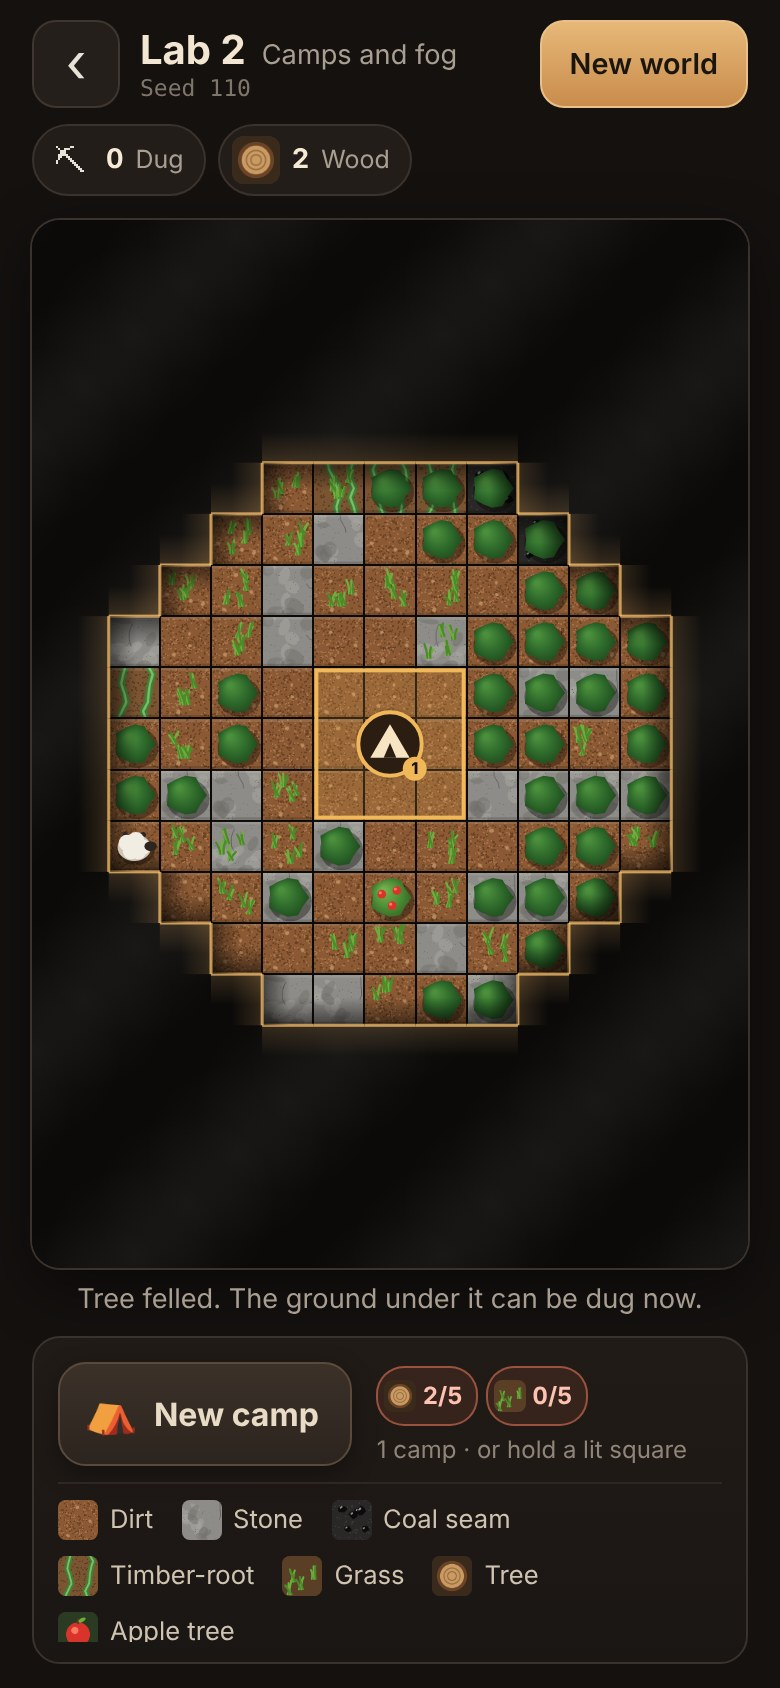
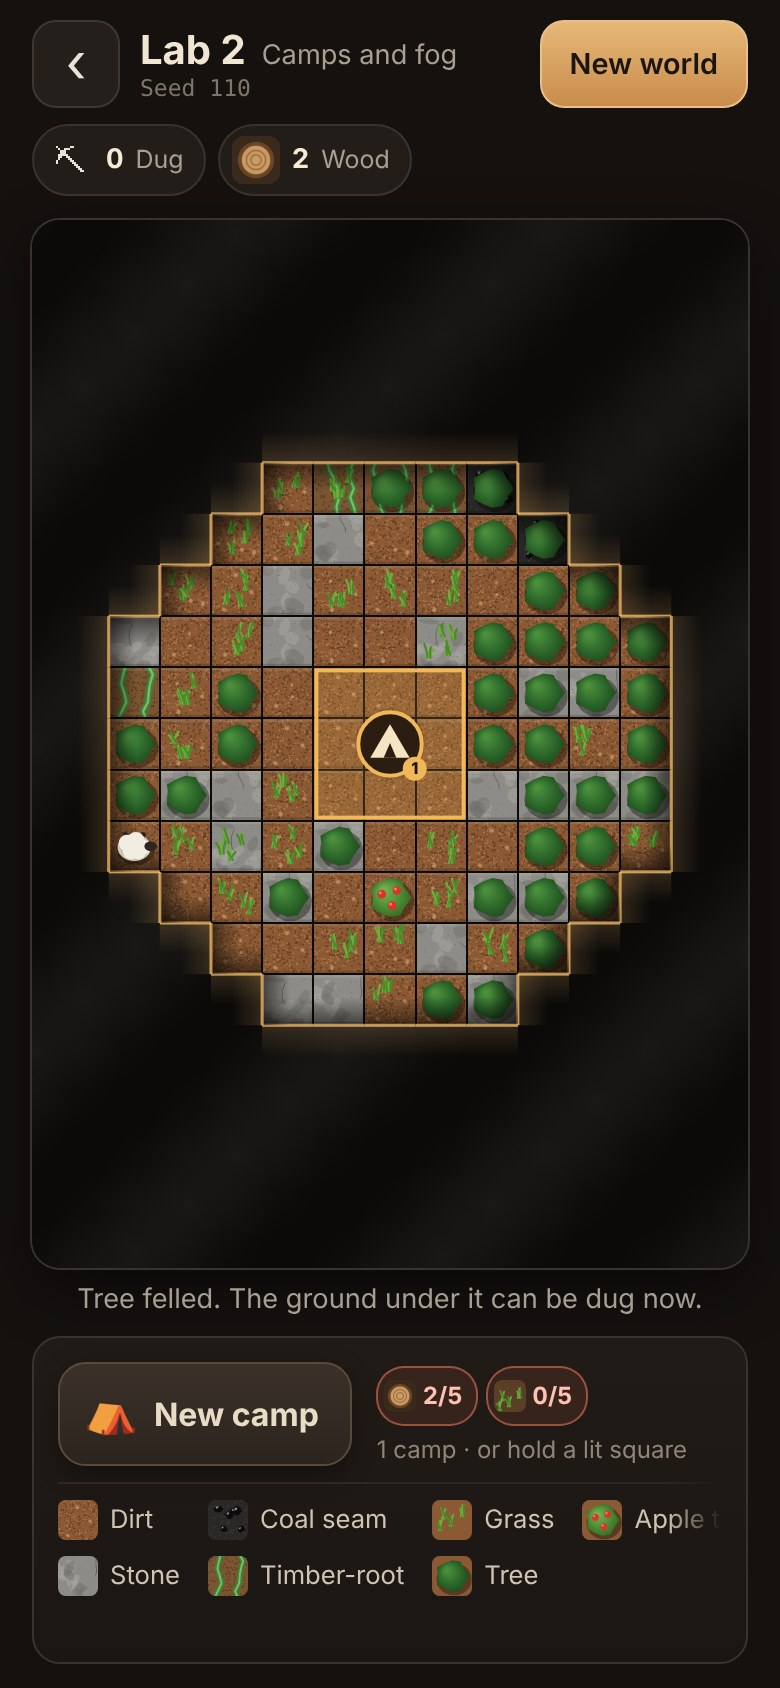
Lab 2: counter leads with the next costs; refused outline stands out on clay
Review of PR #122 (optional notes, asked for by the coordinator):
- The counter puts the items the lowest camp's next upgrade costs first,
  then a new camp's, so clay, stone and animals no longer hide off its
  right edge. The level-2 e2e test checks the order.
- A refused camp target's red dashed outline has a dark band under it, so
  it reads over clay's reddish ground as well.
- Decision note 0043 describes the counter order and the key's layout.

Claude-Session: https://claude.ai/code/session_013qbeeYRuiqGUrErSzN4qt9

Changed region(s): [[0.0615, 0.8626, 0.7077, 0.9858], [0.7385, 0.8626, 0.8, 0.9242], [0.8308, 0.8934, 0.8923, 0.9242]]

diff --git a/src/app/lab/campScreen.ts b/src/app/lab/campScreen.ts
@@ -632,6 +632,18 @@ export function mountCampLab(root: HTMLElement, seed: number | null, onBack: () 
     }
     const { px, py } = toPx(target.x, target.y);
     ctx.save();
+    if (blocked) {
+      // A dark band under the red dashes, so the outline reads over clay's
+      // reddish ground too (review of PR #122).
+      ctx.strokeStyle = CAMP_MARKS.notLevelHalo;
+      ctx.lineWidth = Math.max(4, c * 0.17);
+      ctx.strokeRect(
+        px - c + ctx.lineWidth / 2,
+        py - c + ctx.lineWidth / 2,
+        c * 3 - ctx.lineWidth,
+        c * 3 - ctx.lineWidth,
+      );
+    }
     ctx.globalAlpha = pulse;
     ctx.strokeStyle = blocked ? CAMP_MARKS.notLevel : CAMP_MARKS.target;
     ctx.lineWidth = Math.max(2, c * 0.09);
@@ -751,15 +763,42 @@ export function mountCampLab(root: HTMLElement, seed: number | null, onBack: () 
       );
       chips.push(made);
     };
+    // Every item collected: the lab's own (with their icons), then the game's.
+    const all: { item: string; count: number; icon: () => HTMLCanvasElement | null }[] = [];
     for (const item of Object.keys(LAB_ITEMS)) {
-      const count = counts.get(item) ?? 0;
-      const icon = labItemIcon(item, 'lab-chip-icon');
-      if (count > 0 && icon !== null) {
-        chip(item, count, icon);
-      }
+      all.push({
+        item,
+        count: counts.get(item) ?? 0,
+        icon: () => labItemIcon(item, 'lab-chip-icon'),
+      });
     }
     for (const entry of resourceEntries(counts)) {
-      chip(entry.item, entry.count, blockIcon(entry.iconBlock, 'lab-chip-icon'));
+      all.push({
+        item: entry.item,
+        count: entry.count,
+        icon: () => blockIcon(entry.iconBlock, 'lab-chip-icon'),
+      });
+    }
+    // What the next steps cost comes first, so it never hides off the right
+    // edge (review of PR #122): the lowest camp's next upgrade, then a new
+    // camp. (Wood and grass come early, when they are the only chips anyway.)
+    // The rest keeps its order after them.
+    const lowest = Math.min(...world.camps.map((c) => c.level));
+    const wanted: string[] = [];
+    for (const stack of [...(upgradeCostFrom(lowest) ?? []), ...LAB_NEW_CAMP_COST]) {
+      if (!wanted.includes(stack.item)) wanted.push(stack.item);
+    }
+    const rank = (item: string): number => {
+      const at = wanted.indexOf(item);
+      return at === -1 ? wanted.length : at;
+    };
+    // `sort` keeps equal ranks in their order (it is stable), so the rest stays as it was.
+    all.sort((a, b) => rank(a.item) - rank(b.item));
+    for (const entry of all) {
+      const icon = entry.count > 0 ? entry.icon() : null;
+      if (icon !== null) {
+        chip(entry.item, entry.count, icon);
+      }
     }
     counter.replaceChildren(...chips);
   }

diff --git a/tests/e2e/lab2.spec.ts b/tests/e2e/lab2.spec.ts
@@ -430,6 +430,16 @@ test('clay, stone and an animal pay for level 2, and the ring grows', async ({ p
   await expect(canvas).toHaveAttribute('data-shown', String(shownOf(plan.world)));
   await expect.poll(() => counts(page)).toEqual(expectedCounts(plan.world));
 
+  // The counter puts what the upgrade costs first, right after "Dug", so
+  // clay, stone and animals never hide off its right edge.
+  const order = await page
+    .getByTestId('lab-counter')
+    .evaluate((el) => Array.from(el.children).map((c) => (c as HTMLElement).dataset['testid']));
+  expect(order.slice(0, 4)).toEqual([
+    'lab-dug',
+    ...(upgradeCostFrom(1) ?? []).map((stack) => `lab-res-${stack.item}`),
+  ]);
+
   // The camp's panel: level 1, ring 5, and the upgrade's cost all green.
   const cost = upgradeCostFrom(1) ?? [];
   await tapSquare(page, canvas, plan.camp);

diff --git a/src/app/lab/campLook.ts b/src/app/lab/campLook.ts
@@ -49,6 +49,8 @@ export const CAMP_MARKS = {
   baseWash: 'rgba(241, 184, 90, 0.16)',
   /** "Ground not level": the footprint's outline, and the wash on the squares at another depth. */
   notLevel: '#ff6b4a',
+  /** A dark band under the refused outline, so it stands out on any ground, clay's red included. */
+  notLevelHalo: 'rgba(20, 10, 6, 0.85)',
   notLevelWash: 'rgba(255, 107, 74, 0.35)',
   /** The ring drawn round a selected camp, or round where a new camp would go. */
   ring: 'rgba(255, 204, 120, 0.95)',

diff --git a/docs/decisions/0043-ui-lab-2-surface.md b/docs/decisions/0043-ui-lab-2-surface.md
@@ -21,7 +21,7 @@ Date: 2026-11-21. Status: implemented (issue #121). Builds on 0042 (Lab 2). No g
   | Level 2  | 10 clay + 15 stone + 1 animal              |
   | Level 3  | 20 clay + 40 stone + 3 animals + 10 apples |
 
-- **Counter and key.** Wood, grass, apples, animals and clay have their own icons in the counter (still one row at a fixed height) and in the cost chips. The key adds clay, grass, trees and apple trees when they are in sight.
+- **Counter and key.** Wood, grass, apples, animals and clay have their own icons in the counter (still one row at a fixed height) and in the cost chips. The counter puts what the lowest camp's next upgrade costs first, then what a new camp costs, so those never hide off its right edge. The key adds clay, grass, trees and apple trees when they are in sight, drawn with the map's own art. It takes two rows and scrolls sideways when there are more kinds, so the tray's fixed height never cuts an entry (review of PR #122).
 - **The three optional fixes from the review of PR #120:**
   - the would-be camp's gold ring and wash are hidden when the target is refused;
   - "Ground not level" (and the other refusals) are said once, in the panel;
